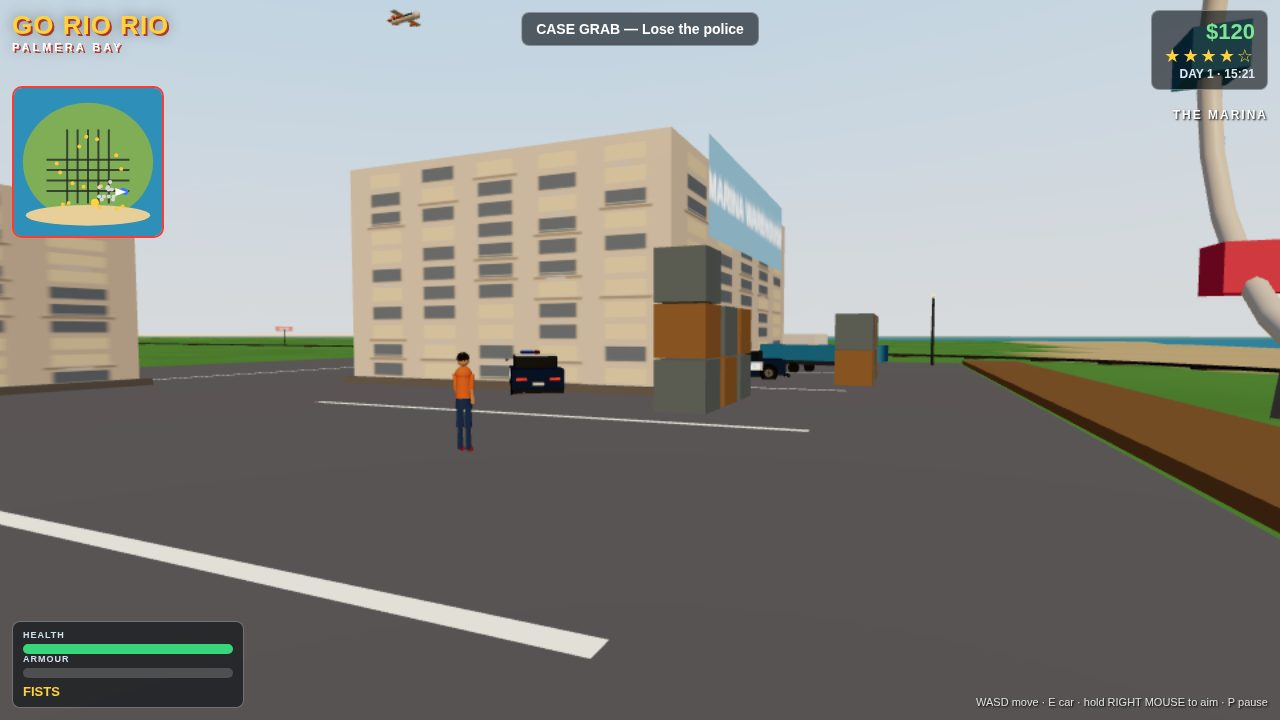
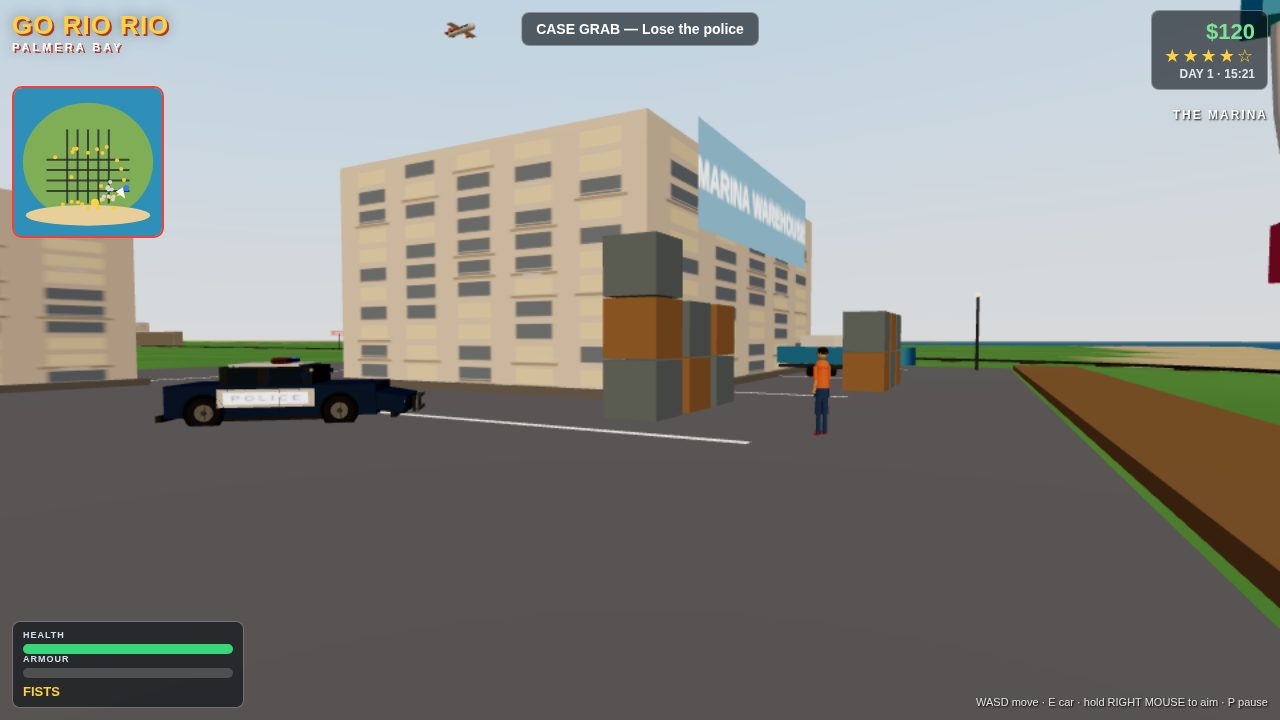
Criteria fix round: denser frames, 10 jobs, minimap route, water/sky grade

diff --git a/game/src/missions.js b/game/src/missions.js
@@ -6,14 +6,16 @@ import { buildFigure, poseFigure } from './characters.js';
 import { createVehicle } from './vehicles.js';
 const LOCKUP = { x: -150, z: 60 };
 export const JOBS = [
- { title: 'BEACH RUN', ch: 1, pay: 150, rep: 10, brief: 'A warm-up from Marina: a sunset stroll to the end of the pier.', stages: [{ kind: 'goto', x: 24, z: 262, text: 'Reach the end of the pier' }] },
- { title: 'HOT GOODS', ch: 1, pay: 300, rep: 15, brief: 'Lift the red sports car off Palm Ave and cool it at the lockup.', stages: [{ kind: 'steal', car: 'sport', x: 48, z: 84, text: 'Steal the red sports car off Palm Ave' }, { kind: 'deliver', x: LOCKUP.x, z: LOCKUP.z, text: 'Deliver it to the west lockup' }] },
- { title: 'CASE GRAB', ch: 1, pay: 600, rep: 25, brief: 'Snatch the gold case at the marina — then shake the heat.', stages: [{ kind: 'grab', x: 152, z: 128, text: 'Grab the gold case at the marina warehouse' }, { kind: 'lose', text: 'Lose the police' }, { kind: 'goto', x: 30, z: 176, text: 'Bring the case back to Marina' }] },
- { title: 'AIRPORT RUN', ch: 2, pay: 800, rep: 20, brief: 'A van at Bay Airport needs to disappear downtown.', stages: [{ kind: 'steal', car: 'van', x: -168, z: 60, text: 'Take the van at Bay Airport' }, { kind: 'deliver', x: 60, z: 40, text: 'Drop the van downtown' }] },
- { title: 'STREET HEAT', ch: 2, pay: 1000, rep: 25, brief: 'Steal the coupe and thread every checkpoint across town.', stages: [{ kind: 'steal', car: 'coupe', x: -48, z: 40, text: 'Take the coupe by Palm Park' }, { kind: 'race', text: 'Hit every checkpoint across town' }] },
- { title: 'DOC RUN', ch: 2, pay: 1400, rep: 30, brief: 'Clinic pickup, Fort Sol drop — the meds ride with you.', stages: [{ kind: 'goto', x: -104, z: -6, text: 'Meet the doctor at Bay Clinic' }, { kind: 'goto', x: 186, z: -44, text: 'Carry the meds to Fort Sol' }] },
- { title: 'HARBOUR HAUL', ch: 3, pay: 2200, rep: 35, brief: 'Haul the marina truck all the way to Bay Airport.', stages: [{ kind: 'steal', car: 'truck', x: 150, z: 118, text: 'Take the truck at the marina' }, { kind: 'deliver', x: -180, z: 96, text: 'Haul it to Bay Airport' }] },
- { title: 'BAY DAY', ch: 3, pay: 3500, rep: 50, brief: 'The finale: a party van, a beach party, the whole bay watching.', stages: [{ kind: 'steal', car: 'van', x: 104, z: 74, text: 'Take the party van on Ocean Ave' }, { kind: 'deliver', x: -60, z: 178, text: 'Deliver it to the beach party' }] },
+ { title: 'BEACH RUN', ch: 1, pay: 250, rep: 10, brief: 'A warm-up from Marina: a sunset stroll to the end of the pier.', stages: [{ kind: 'goto', x: 24, z: 262, text: 'Reach the end of the pier' }] },
+ { title: 'HOT GOODS', ch: 1, pay: 400, rep: 15, brief: 'Lift the red sports car off Palm Ave and cool it at the lockup.', stages: [{ kind: 'steal', car: 'sport', x: 48, z: 84, text: 'Steal the red sports car off Palm Ave' }, { kind: 'deliver', x: LOCKUP.x, z: LOCKUP.z, text: 'Deliver it to the west lockup' }] },
+ { title: 'CASE GRAB', ch: 1, pay: 700, rep: 25, brief: 'Snatch the gold case at the marina — then shake the heat.', stages: [{ kind: 'grab', x: 152, z: 128, text: 'Grab the gold case at the marina warehouse' }, { kind: 'lose', text: 'Lose the police' }, { kind: 'goto', x: 30, z: 176, text: 'Bring the case back to Marina' }] },
+ { title: 'AIRPORT RUN', ch: 2, pay: 1200, rep: 20, brief: 'A van at Bay Airport needs to disappear downtown.', stages: [{ kind: 'steal', car: 'van', x: -168, z: 60, text: 'Take the van at Bay Airport' }, { kind: 'deliver', x: 60, z: 40, text: 'Drop the van downtown' }] },
+ { title: 'STREET HEAT', ch: 2, pay: 2000, rep: 25, brief: 'Steal the coupe and thread every checkpoint across town.', stages: [{ kind: 'steal', car: 'coupe', x: -48, z: 40, text: 'Take the coupe by Palm Park' }, { kind: 'race', text: 'Hit every checkpoint across town' }] },
+ { title: 'DOC RUN', ch: 2, pay: 3200, rep: 30, brief: 'Clinic pickup, Fort Sol drop — the meds ride with you.', stages: [{ kind: 'goto', x: -104, z: -6, text: 'Meet the doctor at Bay Clinic' }, { kind: 'goto', x: 186, z: -44, text: 'Carry the meds to Fort Sol' }] },
+ { title: 'HARBOUR HAUL', ch: 3, pay: 5000, rep: 35, brief: 'Haul the marina truck all the way to Bay Airport.', stages: [{ kind: 'steal', car: 'truck', x: 150, z: 118, text: 'Take the truck at the marina' }, { kind: 'deliver', x: -180, z: 96, text: 'Haul it to Bay Airport' }] },
+ { title: 'BAY DAY', ch: 3, pay: 7500, rep: 50, brief: 'A party van, a beach party, the whole bay watching.', stages: [{ kind: 'steal', car: 'van', x: 104, z: 74, text: 'Take the party van on Ocean Ave' }, { kind: 'deliver', x: -60, z: 178, text: 'Deliver it to the beach party' }] },
+ { title: 'VICE RUN', ch: 3, pay: 9500, rep: 40, brief: 'A black limo waits at Fort Sol, full of secrets — to the lockup.', stages: [{ kind: 'steal', car: 'limo', x: 168, z: -34, text: 'Steal the limo at Fort Sol' }, { kind: 'deliver', x: LOCKUP.x, z: LOCKUP.z, text: 'Deliver it to the west lockup' }] },
+ { title: 'PALMERA CROWN', ch: 3, pay: 12500, rep: 60, brief: 'The finale: lift the Fort Sol crown, shake the heat, bring it home.', stages: [{ kind: 'grab', x: 186, z: -44, text: 'Grab the crown at Fort Sol' }, { kind: 'lose', text: 'Lose the police' }, { kind: 'goto', x: 30, z: 176, text: 'Bring the crown back to Marina' }] },
 ];
 const RACE_POINTS = [[45, -10], [90, 35], [45, 80], [0, 125], [-45, 80], [-90, 35]];
 export function createMissions(G) {
@@ -110,7 +112,7 @@ export function createMissions(G) {
    s.mesh.rotation.y += dt * 1.5;
    if (Math.hypot(p.x - s.x, p.z - s.z) < 1.8) {
     s.taken = true; s.mesh.visible = false; save.shells.push(i); save.cash += 100; storeSave(save);
-    G.hud.toast(`GOLDEN SHELL ${save.shells.length}/15 — +$100`); G.audio.cash();
+    G.hud.toast(`GOLDEN SHELL ${save.shells.length}/20 — +$100`); G.audio.cash();
    }
   });
 

diff --git a/game/src/hud.js b/game/src/hud.js
@@ -81,7 +81,12 @@ export function createHud(G) {
     G.shellSpots.forEach((s, i) => { if (!s.taken && !G.save.shells.includes(i)) dot(s.x, s.z, '#ffc93e', 2); });
     for (const car of G.cars) if (Math.hypot(car.x - G.player.x, car.z - G.player.z) < 95) dot(car.x, car.z, '#d8d8d8', 2);
     for (const u of G.police.units) dot(u.x, u.z, '#3c78ff', 3);
-    if (G.beaconTarget) dot(G.beaconTarget.x, G.beaconTarget.z, '#ffd23e', 4);
+    if (G.beaconTarget) {
+      const [bx, by] = world2map(G.beaconTarget.x, G.beaconTarget.z, S), [qx, qy] = world2map(G.player.x, G.player.z, S);
+      g.strokeStyle = '#ffd23e'; g.lineWidth = 2; g.setLineDash([5, 4]);
+      g.beginPath(); g.moveTo(qx, qy); g.lineTo(bx, by); g.stroke(); g.setLineDash([]);
+      dot(G.beaconTarget.x, G.beaconTarget.z, '#ffd23e', 4);
+    }
     const p = G.player, [px, py] = world2map(p.x, p.z, S);
     g.save(); g.translate(px, py); g.rotate(p.car ? p.car.angle : p.angle);
     g.fillStyle = '#ffffff'; g.beginPath(); g.moveTo(0, -6); g.lineTo(4, 5); g.lineTo(-4, 5); g.closePath(); g.fill(); g.restore();
@@ -164,7 +169,7 @@ export function renderPause(G, tab) {
     g.fillStyle = '#ffffff'; g.strokeStyle = 'rgba(0,0,0,0.6)'; g.lineWidth = 1;
     g.beginPath(); g.moveTo(0, -7); g.lineTo(5, 6); g.lineTo(-5, 6); g.closePath(); g.fill(); g.stroke(); g.restore();
     const visited = DISTRICTS.filter((d) => (save.standing[d.name] || 0) > 0).length;
-    body.querySelector('#coverrow').textContent = `JOBS ${save.jobsDone}/8 · GOLDEN SHELLS ${save.shells.length}/15 · DISTRICTS ${visited}/7`;
+    body.querySelector('#coverrow').textContent = `JOBS ${save.jobsDone}/10 · GOLDEN SHELLS ${save.shells.length}/20 · DISTRICTS ${visited}/7`;
     const stands = Object.entries(save.standing);
     body.querySelector('#standrow').textContent = stands.length ? stands.map(([k, v]) => `${k} ${Math.round(v)}%`).join(' · ') : 'No district standing yet — finish jobs to earn it.';
   } else if (tab === 'MISSIONS') {
@@ -172,7 +177,7 @@ export function renderPause(G, tab) {
   } else if (tab === 'STATS') {
     const rows = [
       ['Cash', '$' + save.cash], ['Respect', save.respect], ['Bay Rep Lv', 1 + Math.floor(save.respect / 60)],
-      ['Day', save.day], ['Jobs done', save.jobsDone + ' / 8'], ['Golden shells', save.shells.length + ' / 15'],
+      ['Day', save.day], ['Jobs done', save.jobsDone + ' / 10'], ['Golden shells', save.shells.length + ' / 20'],
       ['Safehouse', save.safehouse ? 'owned' : '—'], ['Garage', `ENGINE Lv${save.garage.engine} · ARMOUR Lv${save.garage.armour} · NITRO ${save.garage.nitro ? 'yes' : 'no'}`],
       ['Best Street Heat', save.bestRace.heat ? save.bestRace.heat + 's' : '—'],
     ];

diff --git a/game/src/world.js b/game/src/world.js
@@ -40,11 +40,11 @@ export function buildWorld(scene, G) {
  const rng = mulberry32(1337);
  G.colliders = []; G.ramps = []; G.props = [];
 
- scene.fog = new THREE.Fog(0xf2c98d, 180, 720);
+ scene.fog = new THREE.Fog(0xf6cd96, 180, 720);
  const skyTex = canvasTex(64, 512, (g, w, h) => {
   const gr = g.createLinearGradient(0, 0, 0, h);
   gr.addColorStop(0, '#27589f'); gr.addColorStop(0.38, '#5f97d8');
-  gr.addColorStop(0.66, '#eec27f'); gr.addColorStop(0.85, '#ffab5e'); gr.addColorStop(1, '#ff8f45');
+  gr.addColorStop(0.66, '#f4bd72'); gr.addColorStop(0.85, '#ff9e4f'); gr.addColorStop(1, '#ff8f45');
   g.fillStyle = gr; g.fillRect(0, 0, w, h);
  });
  const sky = new THREE.Mesh(new THREE.SphereGeometry(880, 24, 14),
@@ -93,20 +93,20 @@ export function buildWorld(scene, G) {
  scene.add(new THREE.Mesh(gGeo, new THREE.MeshStandardMaterial({ vertexColors: true, roughness: 1 })));
 
  const seaTex = canvasTex(256, 256, (g, w, h) => {
-  g.fillStyle = '#2e8fb8'; g.fillRect(0, 0, w, h);
+  g.fillStyle = '#22779f'; g.fillRect(0, 0, w, h);
   for (let i = 0; i < 2600; i++) {
    g.fillStyle = Math.random() < 0.5 ? `rgba(255,255,255,${0.03 + Math.random() * 0.07})` : `rgba(8,50,80,${0.03 + Math.random() * 0.06})`;
    g.fillRect(Math.random() * w, Math.random() * h, 1 + Math.random() * 2, 1);
   }
   g.lineWidth = 1;
   for (let i = 0; i < 150; i++) {
-   g.strokeStyle = `rgba(255,246,220,${0.05 + Math.random() * 0.1})`;
+   g.strokeStyle = `rgba(255,246,220,${0.02 + Math.random() * 0.05})`;
    const x = Math.random() * w, y = Math.random() * h, len = 3 + Math.random() * 7;
    g.beginPath(); g.moveTo(x, y); g.lineTo(x + len, y + (Math.random() - 0.5) * 1.5); g.stroke();
   }
  }, 30, 30);
  const sea = new THREE.Mesh(new THREE.PlaneGeometry(1500, 1500),
-  new THREE.MeshPhongMaterial({ color: 0x9fd4e8, map: seaTex, transparent: true, opacity: 0.88, shininess: 140, specular: 0xfff2cc }));
+  new THREE.MeshPhongMaterial({ color: 0x5fa8cf, map: seaTex, transparent: true, opacity: 0.88, shininess: 140, specular: 0xfff2cc }));
  sea.rotation.x = -Math.PI / 2; sea.position.y = WATER_Y; scene.add(sea);
  G.seaTex = seaTex;
 
@@ -598,8 +598,8 @@ export function buildWorld(scene, G) {
 
  G.shellSpots = [];
  const shellMat = new THREE.MeshStandardMaterial({ color: 0xffc93e, roughness: 0.25, metalness: 0.8, emissive: 0x664d00 });
- for (let i = 0; i < 15; i++) {
-  const a = (i / 15) * Math.PI * 2;
+ for (let i = 0; i < 20; i++) {
+  const a = (i / 20) * Math.PI * 2;
   let sx = Math.cos(a) * range(rng, 60, 190), sz = Math.sin(a) * range(rng, 60, 170) + 30;
 
   const onRoad = (WORLD.avenues.some((ax) => Math.abs(sx - ax) < 9.5 && sz > WORLD.city.z0 && sz < 172)

diff --git a/game/src/shots.js b/game/src/shots.js
@@ -37,24 +37,35 @@ export function stageShot(G, name) {
   G.beaconTarget = { x: 24, z: 262 };
   cam(66, 6.5, 240, -14, 2, 170);
  } else if (name === 'city') {
-  p.x = 2.8; p.z = 34; p.angle = Math.PI;
+  p.x = 8.5; p.z = 43.5; p.angle = 2.7;
   p.fig.group.position.set(p.x, groundY(p.x, p.z), p.z);
-  p.fig.group.rotation.y = Math.PI;
+  p.fig.group.rotation.y = p.angle;
+  createVehicle(G, 'taxi', -16, 38.4, Math.PI / 2);
+  createVehicle(G, 'sedan', -3.4, 28, 0, 0x3c78d8);
+  const spots = [[4,39,0.9],[11,47.5,2.4],[-2,42,-1.6],[6.5,36.5,3],[13,38.5,-2.8]];
+  let n = 0;
+  for (const ped of G.peds) {
+   if (n >= spots.length || ped.role !== 'citizen' || ped.mode !== 'walk') continue;
+   const [sx, sz, ry] = spots[n++];
+   ped.mode = 'stand'; ped.x = ped.tx = sx; ped.z = ped.tz = sz;
+   ped.fig.group.position.set(sx, groundY(sx, sz), sz);
+   ped.fig.group.rotation.y = ry;
+  }
   G.hud.setObjective('STREET HEAT — Hit every checkpoint across town');
   G.beaconTarget = { x: 45, z: -10 };
-  cam(7.5, 3.1, 47, -3, 6, -20);
+  cam(16, 3.1, 54, -6, 1.8, 26);
  } else if (name === 'mission') {
   G.shotMode = true;
-  p.x = 140; p.z = 130; p.angle = Math.PI / 2;
+  p.x = 147; p.z = 137; p.angle = 2.6;
   p.fig.group.position.set(p.x, groundY(p.x, p.z), p.z);
-  p.fig.group.rotation.y = Math.PI / 2;
-  const c1 = createVehicle(G, 'police', 152, 124, 2.2); c1.isBlock = true;
-  const c2 = createVehicle(G, 'police', 162, 130, -2.8); c2.isBlock = true;
+  p.fig.group.rotation.y = 2.6;
+  const c1 = createVehicle(G, 'police', 143, 124, 0.7); c1.isBlock = true;
+  const c2 = createVehicle(G, 'police', 166, 112, -2.2); c2.isBlock = true;
   G.police.units.push(c1, c2); G.police.heat = 400;
   G.missions.hasCase = true;
   G.hud.setObjective('CASE GRAB — Lose the police');
   G.beaconTarget = { x: 30, z: 176 };
-  cam(130, 3.2, 138, 168, 1.4, 122);
+  cam(133, 3, 140, 170, 1.5, 120);
  } else if (name.startsWith('char')) {
 
   p.x = 34; p.z = 190;

diff --git a/game/src/save.js b/game/src/save.js
@@ -1,7 +1,7 @@
 
 
 const KEY = 'go-rio-rio-save-v1';
-export const JOB_COUNT = 8;
+export const JOB_COUNT = 10;
 function clampNum(v, lo, hi, fallback) {
  const n = typeof v === 'number' && Number.isFinite(v) ? v : fallback;
  return Math.min(hi, Math.max(lo, n));
@@ -32,7 +32,7 @@ export function loadSave() {
  if (raw.ammo && typeof raw.ammo === 'object') {
   for (const k of ['pistol', 'smg', 'rifle']) d.ammo[k] = Math.floor(clampNum(raw.ammo[k], 0, 9999, d.ammo[k] || 0));
  }
- if (Array.isArray(raw.shells)) d.shells = raw.shells.filter((n) => Number.isInteger(n) && n >= 0 && n < 15);
+ if (Array.isArray(raw.shells)) d.shells = raw.shells.filter((n) => Number.isInteger(n) && n >= 0 && n < 20);
  if (raw.bestRace && typeof raw.bestRace === 'object') {
   for (const k of Object.keys(raw.bestRace)) {
    const v = clampNum(raw.bestRace[k], 1, 3600, 0);

diff --git a/game/index.html b/game/index.html
@@ -87,7 +87,7 @@
 <div id="start" class="overlay">
   <div id="logo">GO RIO RIO</div>
   <div id="tagline">THE SUNNY SIDE OF CRIME</div>
-  <div id="features">8 MISSIONS · 3 CHAPTERS · 5-PHASE VEHICLE DAMAGE · CRUSHER TRAIN · 15 GOLDEN SHELLS · GARAGE &amp; SAFEHOUSE</div>
+  <div id="features">10 MISSIONS · 3 CHAPTERS · 5-PHASE VEHICLE DAMAGE · CRUSHER TRAIN · 20 GOLDEN SHELLS · GARAGE &amp; SAFEHOUSE</div>
   <button id="play">CLICK TO PLAY</button>
   <div id="controls-line">WASD move · SHIFT run · E enter car · RIGHT MOUSE aim · LEFT MOUSE fire · P pause — progress autosaves in this browser</div>
 </div>
